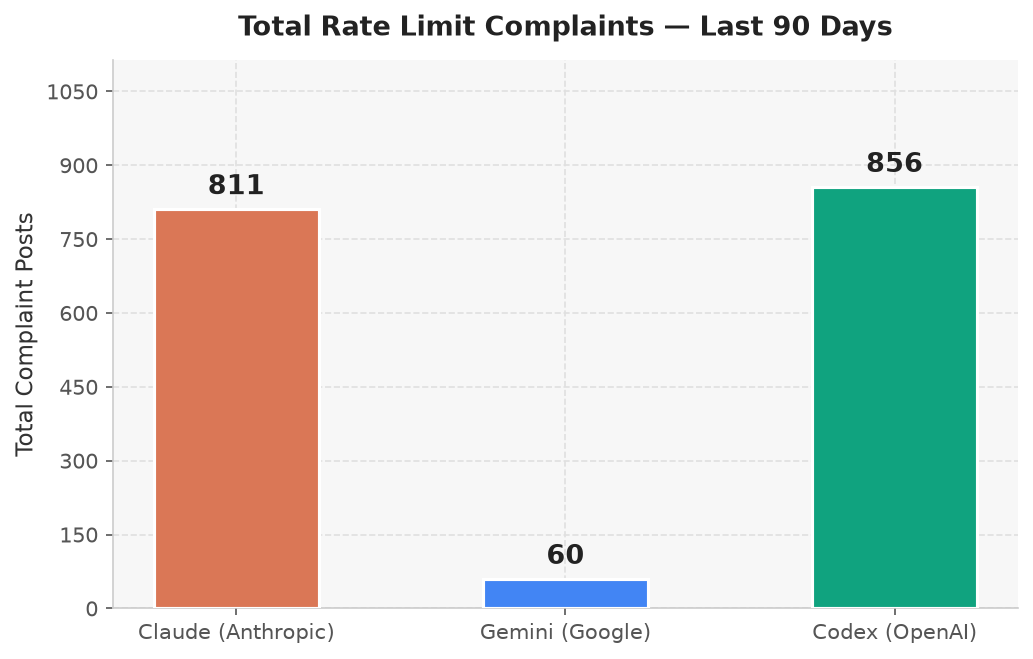
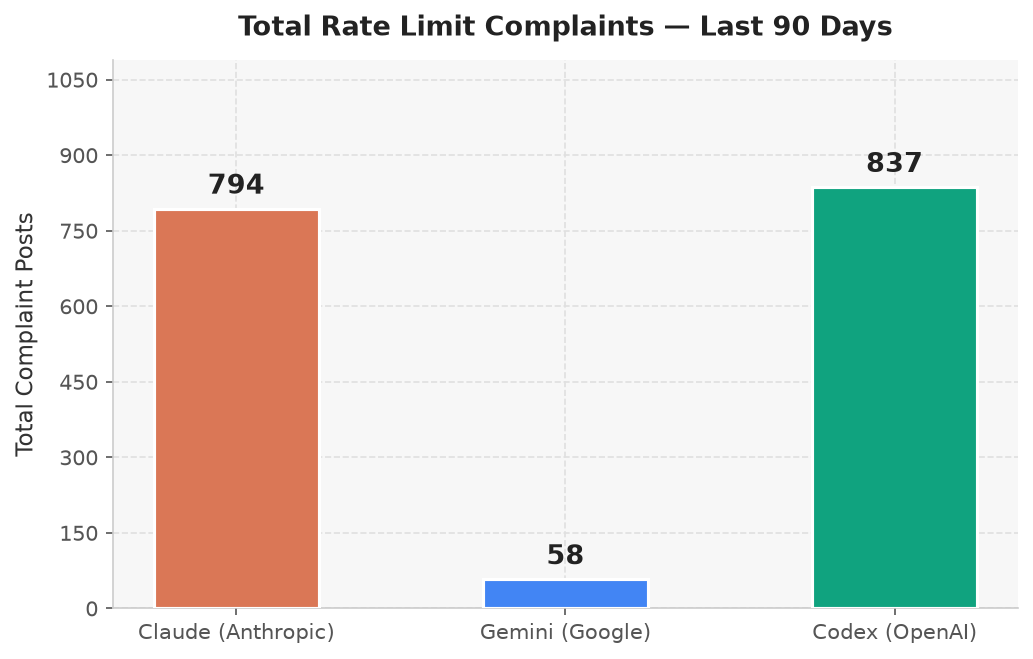
chore: update complaints data 2026-10-12

diff --git a/docs/index.html b/docs/index.html
@@ -165,7 +165,7 @@
     Automatically tracking Reddit posts that complain about rate limits
     for <strong>Claude</strong>, <strong>Gemini</strong>, and <strong>Codex</strong>.
   </p>
-  <p class="updated">Last updated: 2026-10-11T12:30:13.052074+00:00 &nbsp;·&nbsp; Auto-updated daily via GitHub Actions</p>
+  <p class="updated">Last updated: 2026-10-12T14:59:19.002129+00:00 &nbsp;·&nbsp; Auto-updated daily via GitHub Actions</p>
 </header>
 
 <main>
@@ -174,17 +174,17 @@
   <div class="stat-grid">
     <div class="stat-card claude">
       <h3>Claude</h3>
-      <p class="count">811</p>
+      <p class="count">794</p>
       <small>complaint posts (90 days)</small>
     </div>
     <div class="stat-card gemini">
       <h3>Gemini</h3>
-      <p class="count">60</p>
+      <p class="count">58</p>
       <small>complaint posts (90 days)</small>
     </div>
     <div class="stat-card codex">
       <h3>Codex</h3>
-      <p class="count">856</p>
+      <p class="count">837</p>
       <small>complaint posts (90 days)</small>
     </div>
   </div>
